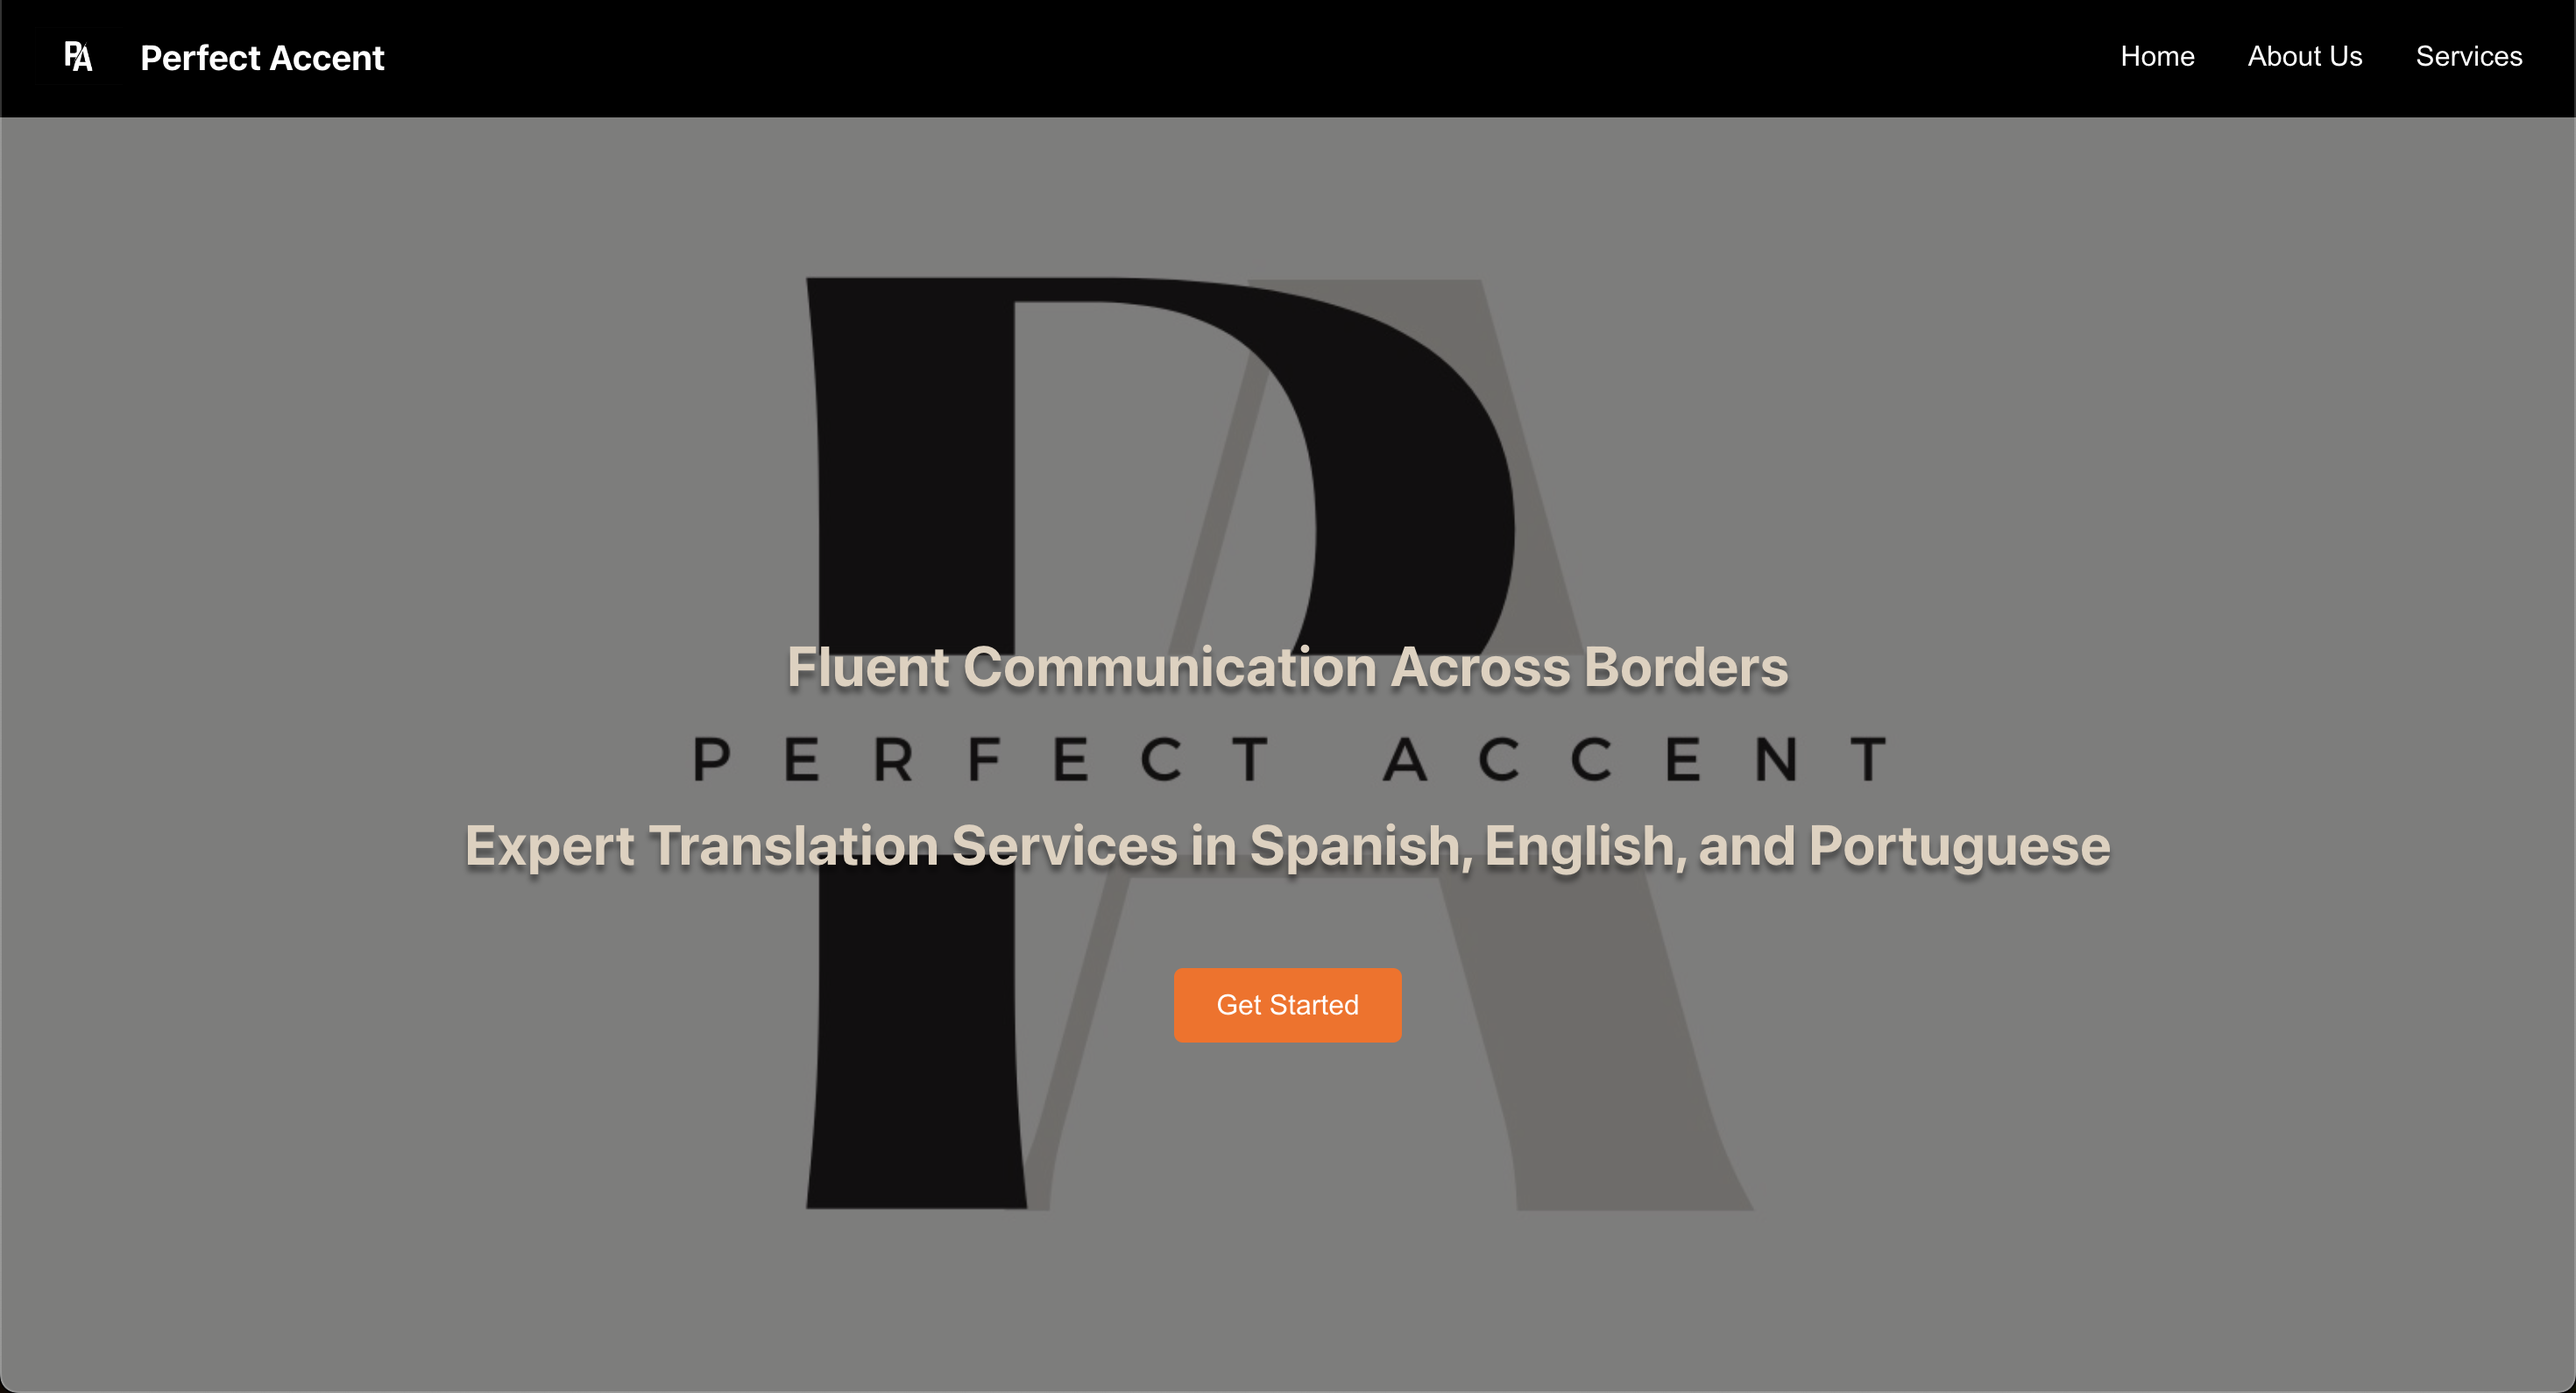
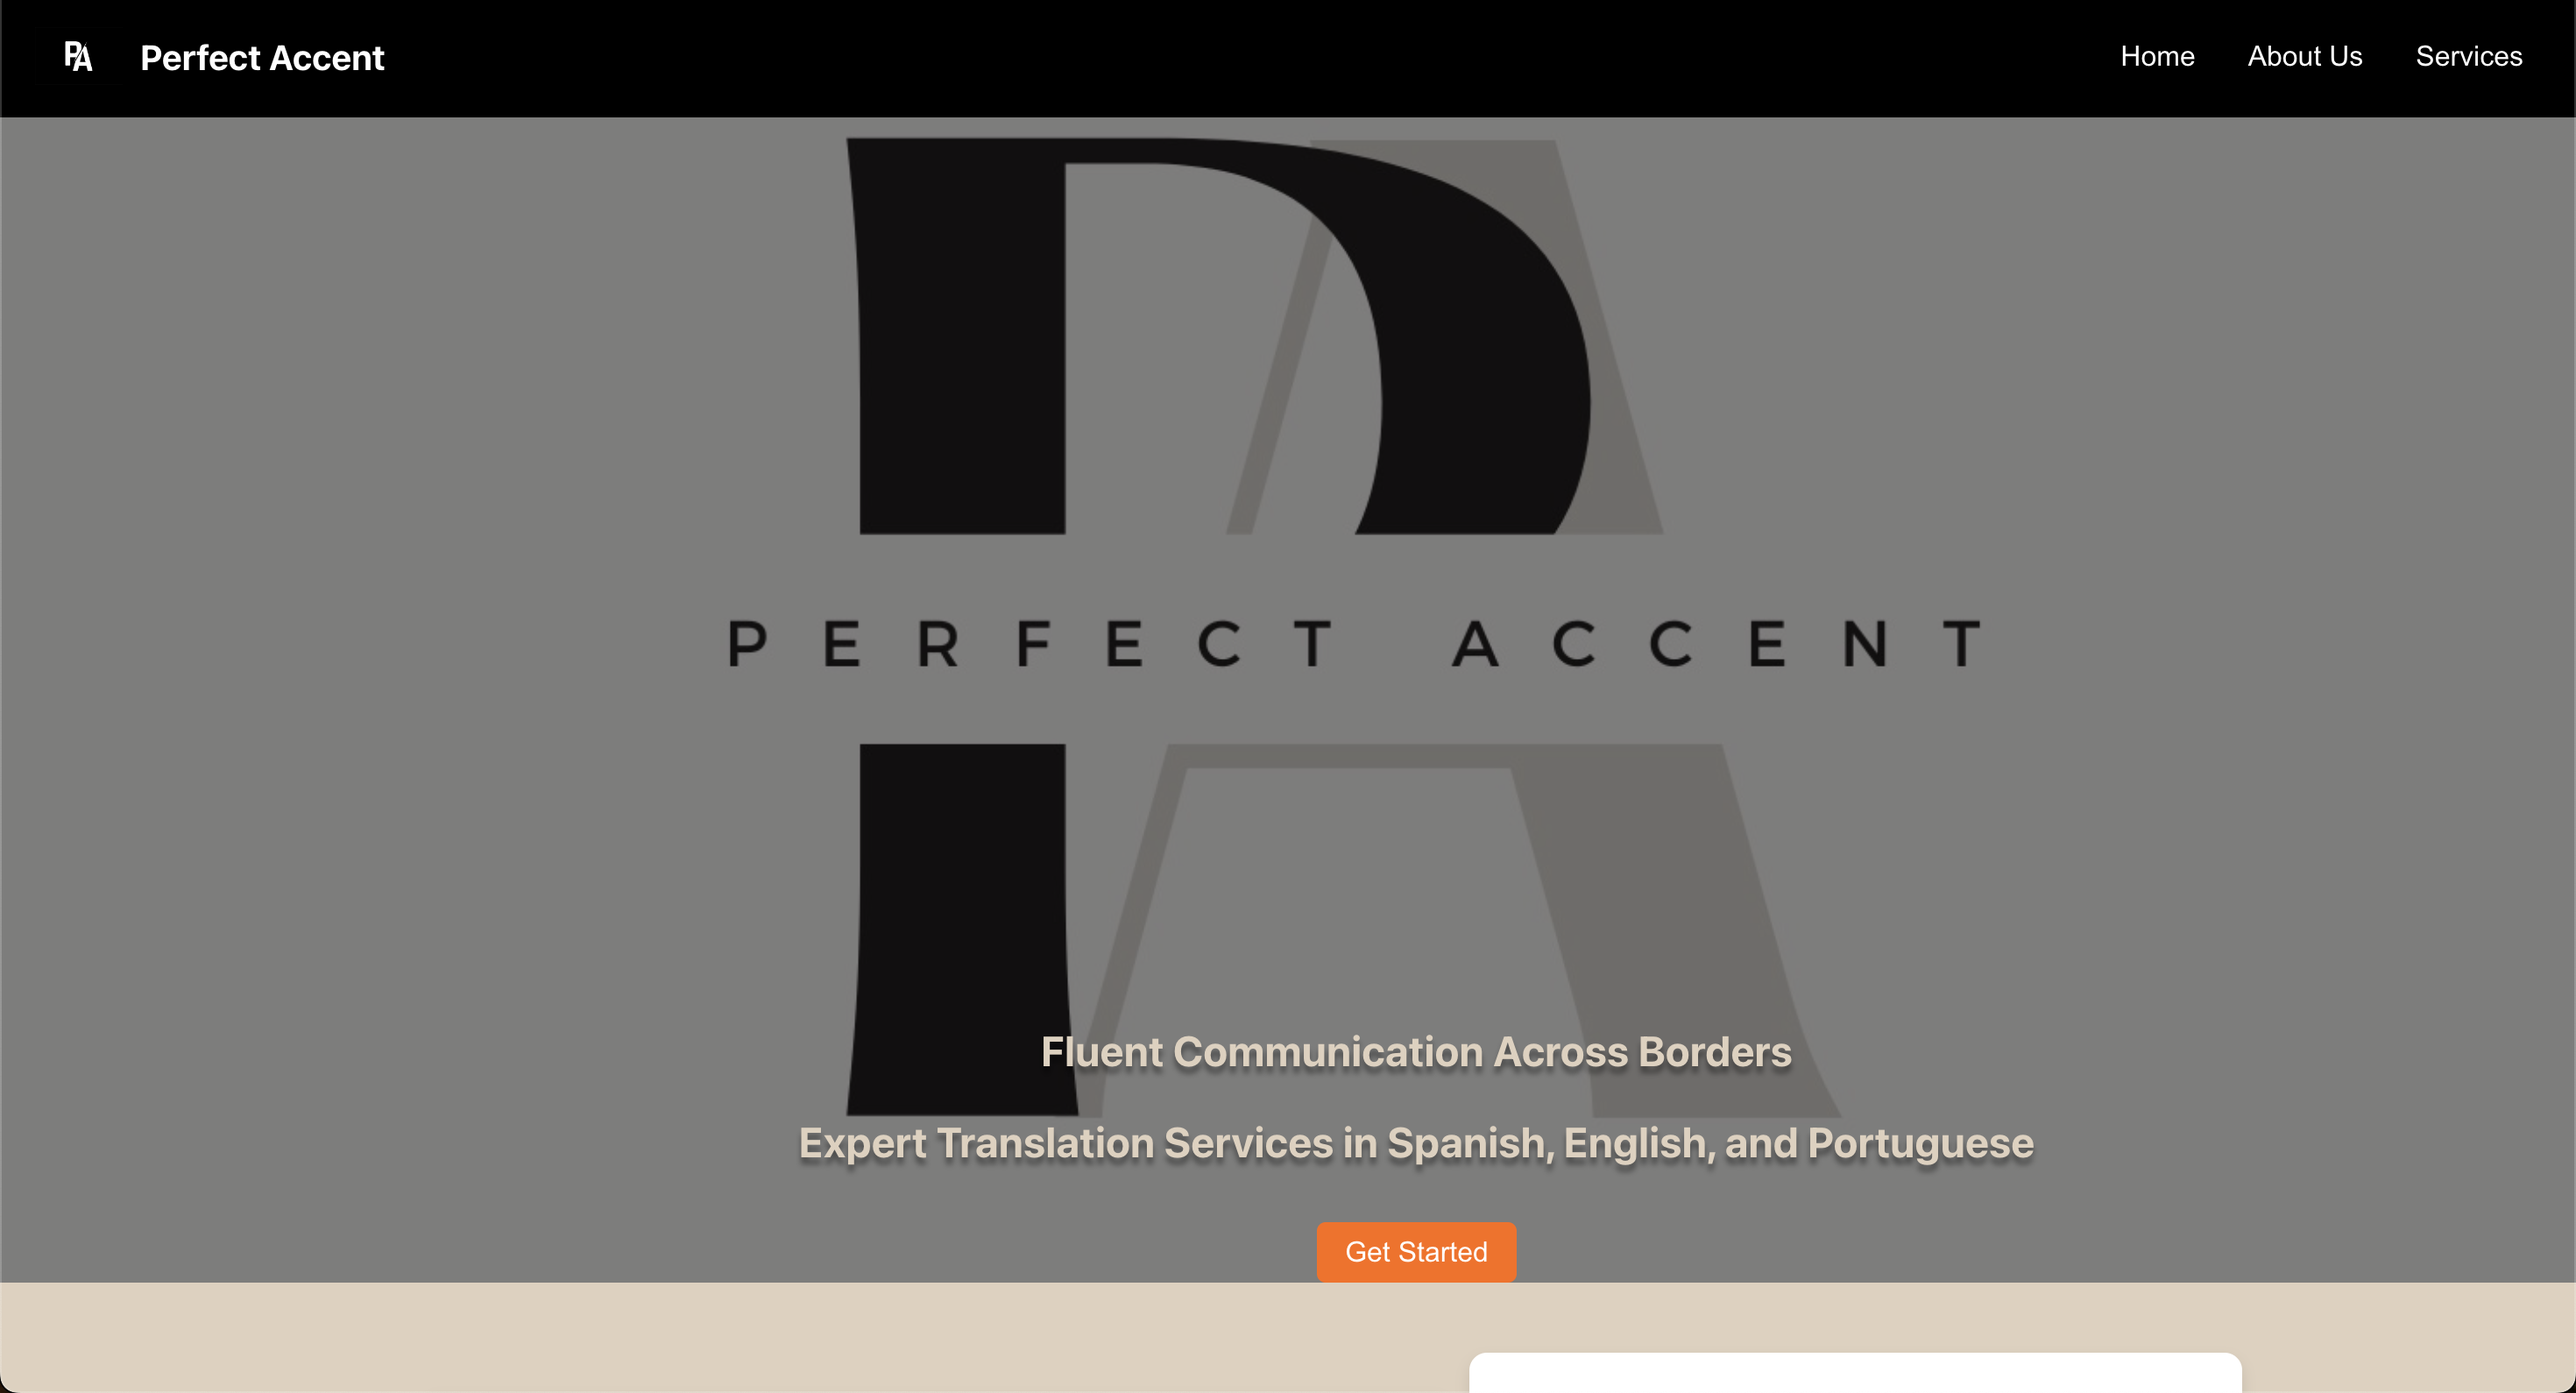
Slideshow Effect

Changed region(s): [[0.0, 0.5239, 1.0, 1.0], [0.2786, 0.0925, 0.7738, 0.4931], [0.5262, 0.5239, 0.7429, 0.5547]]

diff --git a/src/DispTranslate.jsx b/src/DispTranslate.jsx
@@ -1,16 +1,54 @@
-import React,{useState,useEffect} from 'react';
-import mainPicture from './PAMainPage.png' 
-function DispTranslate(){
-    return(
-        <div>
-        <section>
+import React, { useState } from 'react';
+import mainPicture from './PAMainPage.png';
+import picture2 from './PAPicture2.png';
+import picture3 from './PAPicture3.png';
+import picture4 from './PAPicture4.png';
+import './DispTranslate.css';
+import { FontAwesomeIcon } from '@fortawesome/react-fontawesome';
+import { faArrowLeft, faArrowRight } from '@fortawesome/free-solid-svg-icons';
 
-        </section>
-        <footer>
-            <p><a href='https://www.perfect-accent.com' target='_Blank'>Live Demo</ a> | <a href='https://www.github.com/cdiaz2024/translations' target='_Blank'>GitHub Repo</a></p>
-        </footer>
+function DispTranslate() {
+    const pictures = [mainPicture, picture2, picture3, picture4];
+    const [dispPicture, setDispPicture] = useState(mainPicture);
+
+    const handleLeftClick = () => {
+        const currentIndex = pictures.indexOf(dispPicture);
+        let newIndex = currentIndex-1;
+        if(newIndex<0){
+            newIndex=pictures.length-1;
+        }
+        setDispPicture(pictures[newIndex]);
+    }
+
+    const handleRightClick = () => {
+        const currentIndex = pictures.indexOf(dispPicture);
+        let newIndex = currentIndex+1;
+        console.log(newIndex)
+        console.log(pictures.length)
+        if(newIndex===pictures.length){
+            newIndex=0;
+        }
+        setDispPicture(pictures[newIndex]);
+    }
+
+    return (
+        <div className='translateBox'>
+            <div className='buttonContainer'>
+                <button className='LeftButton' onClick={handleLeftClick}>
+                    <FontAwesomeIcon icon={faArrowLeft} />
+                </button>
+                <section>
+                    <img src={dispPicture} alt='Display' />
+                </section>
+                <button className='RightButton' onClick={handleRightClick}>
+                    <FontAwesomeIcon icon={faArrowRight} />
+                </button>
+            </div>
+            <footer>
+                <p><a href='https://www.perfect-accent.com' target='_Blank'>Live Demo</a> | <a href='https://www.github.com/cdiaz2024/translations' target='_Blank'>GitHub Repo</a></p>
+            </footer>
         </div>
-    )
+    );
 }
 
 export default DispTranslate;

diff --git a/src/DispWorkout.jsx b/src/DispWorkout.jsx
@@ -1,8 +1,62 @@
 import React,{useState,useEffect} from 'react';
+import workout1 from './Workout1.png';
+import workout2 from './Workout2.png';
+import workout3 from './Workout3.png';
+import workout4 from './Workout4.png';
+import workout5 from './Workout5.png';
+import workout6 from './Workout6.png';
+import workout7 from './Workout7.png';
+import workout8 from './Workout8.png';
+import './DispWorkout.css';
+import { FontAwesomeIcon } from '@fortawesome/react-fontawesome';
+import { faArrowLeft, faArrowRight } from '@fortawesome/free-solid-svg-icons';
 
 function DispWorkout(){
+    const pictures = [workout1,workout2,workout3,workout4,workout5,workout6,workout7,workout8];
+    const [dispPicture, setDispPicture] = useState(workout1);
+
+    const handleLeftClick = () => {
+        const currentIndex = pictures.indexOf(dispPicture);
+        let newIndex = currentIndex-1;
+        if(newIndex<0){
+            newIndex=pictures.length-1;
+        }
+        setDispPicture(pictures[newIndex]);
+    }
+
+    const handleRightClick = () => {
+        const currentIndex = pictures.indexOf(dispPicture);
+        let newIndex = currentIndex+1;
+        console.log(newIndex)
+        console.log(pictures.length)
+        if(newIndex===pictures.length){
+            newIndex=0;
+        }
+        setDispPicture(pictures[newIndex]);
+    }
+
+
     return(
-        'Workout Tracker Component'
+        <div className='WorkoutBox'>
+            <div className='buttonContainer'>
+                <button className='LeftButton' onClick={handleLeftClick}>
+                    <FontAwesomeIcon icon={faArrowLeft} />
+                </button>
+                <section>
+                    <img src={dispPicture} alt='Display'/>
+                </section>
+                <button className='RightButton' onClick={handleRightClick}>
+                    <FontAwesomeIcon icon={faArrowRight} />
+                </button>
+            </div>
+            <footer>
+                <p>
+                    <a href='https://www.mybulkbuddy.com' target='_blank'>Live Demo</a>
+                    |
+                    <a href='https://www.github.com/csnse/workouttracker' target='_blank'>GitHub Repo</a>
+                </p>
+            </footer>
+        </div>
     )
 }
 

diff --git a/src/DispTranslate.css b/src/DispTranslate.css
@@ -1,0 +1,78 @@
+/* DispTranslate.css */
+
+.translateBox {
+    display: flex;
+    align-items: center;
+    justify-content: center;
+    flex-direction: column;
+    text-align: center;
+    padding: 20px;
+    background-color: #f8f9fa;
+    border: 2px solid #dee2e6;
+    border-radius: 10px;
+    box-shadow: 0 4px 8px rgba(0, 0, 0, 0.1);
+    max-width: 650px;
+    margin: 0 auto;
+}
+
+.buttonContainer {
+    display: flex;
+    align-items: center;
+    justify-content: center;
+    position: relative;
+}
+
+.translateBox img {
+    width: 600px;
+    max-width: 100%;
+    height: auto;
+    border: 2px solid #ced4da;
+    border-radius: 10px;
+    box-shadow: 0 4px 8px rgba(0, 0, 0, 0.1);
+}
+
+.LeftButton, .RightButton {
+    background-color: #007bff;
+    border: none;
+    color: white;
+    padding: 10px;
+    text-align: center;
+    text-decoration: none;
+    display: inline-block;
+    font-size: 16px;
+    margin: 0 10px;
+    cursor: pointer;
+    border-radius: 50%;
+    box-shadow: 0 4px 8px rgba(0, 0, 0, 0.1);
+    transition: background-color 0.3s ease;
+    position: absolute;
+    top: 50%;
+    transform: translateY(-50%);
+}
+
+.LeftButton:hover, .RightButton:hover {
+    background-color: #0056b3;
+}
+
+.LeftButton {
+    left: 10px;
+}
+
+.RightButton {
+    right: 10px;
+}
+
+footer {
+    margin-top: 20px;
+    font-size: 14px;
+    color: #6c757d;
+}
+
+footer a {
+    color: #007bff;
+    text-decoration: none;
+}
+
+footer a:hover {
+    text-decoration: underline;
+}

diff --git a/src/DispWorkout.css b/src/DispWorkout.css
@@ -1,0 +1,75 @@
+/* DispWorkout.css */
+
+.WorkoutBox {
+    display: flex;
+    align-items: center;
+    justify-content: center;
+    flex-direction: column;
+    text-align: center;
+    padding: 40px;
+    background-color: #ffffff;
+    border: 3px solid #e0e0e0;
+    border-radius: 15px;
+    box-shadow: 0 6px 12px rgba(0, 0, 0, 0.2);
+    max-width: 700px;
+    margin: 40px auto;
+}
+
+.buttonContainer {
+    display: flex;
+    align-items: center;
+    justify-content: center;
+    position: relative;
+    width: 100%;
+}
+
+.WorkoutBox img {
+    width: 100%;
+    max-width: 650px;
+    height: auto;
+    border: 2px solid #dcdcdc;
+    border-radius: 15px;
+    box-shadow: 0 6px 12px rgba(0, 0, 0, 0.2);
+}
+
+.LeftButton, .RightButton {
+    background-color: #3498db;
+    border: none;
+    color: white;
+    padding: 15px;
+    font-size: 18px;
+    cursor: pointer;
+    border-radius: 50%;
+    box-shadow: 0 6px 12px rgba(0, 0, 0, 0.2);
+    transition: background-color 0.3s ease;
+    position: absolute;
+    top: 50%;
+    transform: translateY(-50%);
+}
+
+.LeftButton:hover, .RightButton:hover {
+    background-color: #2c82c9;
+}
+
+.LeftButton {
+    left: -50px;
+}
+
+.RightButton {
+    right: -50px;
+}
+
+footer {
+    margin-top: 30px;
+    font-size: 16px;
+    color: #707070;
+}
+
+footer a {
+    color: #3498db;
+    text-decoration: none;
+}
+
+footer a:hover {
+    text-decoration: underline;
+}

diff --git a/public/index.html b/public/index.html
@@ -24,7 +24,7 @@
       work correctly both with client-side routing and a non-root public URL.
       Learn how to configure a non-root public URL by running `npm run build`.
     -->
-    <title>React App</title>
+    <title>Personal Portfolio</title>
   </head>
   <body>
     <noscript>You need to enable JavaScript to run this app.</noscript>
